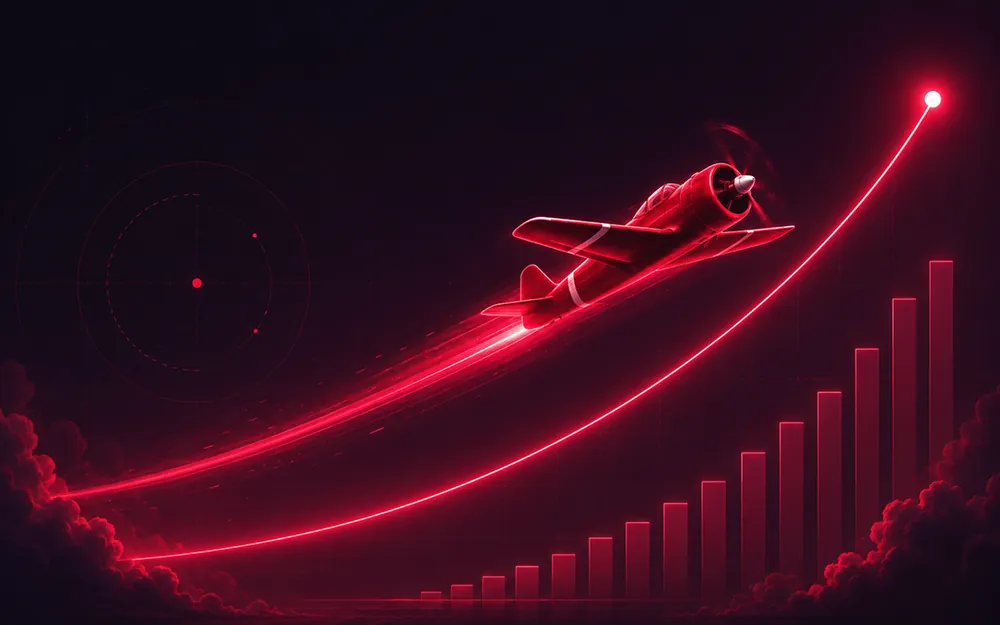
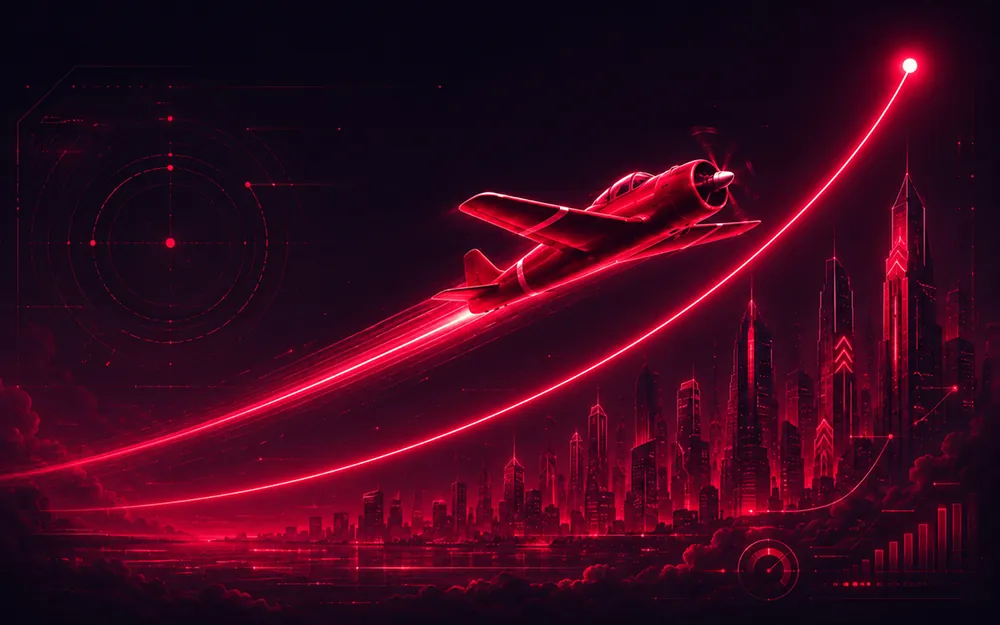
Casino: replace Aviator SVG placeholder with the real crash/city key visual (aviator-04)

diff --git a/public/casino/index.html b/public/casino/index.html
@@ -64,14 +64,8 @@
       <p>Watch the multiplier climb and cash out before it flies away. Aviator is the most-played crash game in Kenya — smooth on the DBBet app, with M-Pesa deposits from as little as KES 30 and instant cash-out. Provably fair, with auto-cashout and live stats.</p>
       <a href="https://refpa96317.com/L?tag=d_5376676m_11213c_&amp;site=5376676&amp;ad=11213&amp;r=slots/game/52358/aviator" class="btn btn-primary">Play Aviator</a>
     </div>
-    <div class="aviator-art" aria-hidden="true">
-      <div class="mult">2.48<span>×</span></div>
-      <svg viewBox="0 0 400 250" preserveAspectRatio="none">
-        <defs><linearGradient id="g" x1="0" y1="1" x2="1" y2="0"><stop offset="0" stop-color="#ff335c" stop-opacity="0"/><stop offset="1" stop-color="#ff335c"/></linearGradient></defs>
-        <path d="M0,240 C120,235 250,200 400,20" fill="none" stroke="url(#g)" stroke-width="4"/>
-        <path d="M0,240 C120,235 250,200 400,20 L400,250 L0,250 Z" fill="rgba(255,51,92,.10)"/>
-        <circle cx="400" cy="20" r="5" fill="#fff"/>
-      </svg>
+    <div class="aviator-art" style="aspect-ratio:16/10;min-height:220px;padding:0;background:none;border:0;border-radius:var(--radius-lg);overflow:hidden">
+      <img src="/images/brand/aviator.webp" width="1000" height="625" loading="lazy" alt="Aviator crash game on DBBet Kenya — the multiplier climbing over a neon skyline" style="width:100%;height:100%;object-fit:cover;display:block">
     </div>
   </div>
   <p class="muted" style="font-size:14px; margin-top:10px">Also available: JetX, Spaceman, Aviatrix and other crash games.</p>